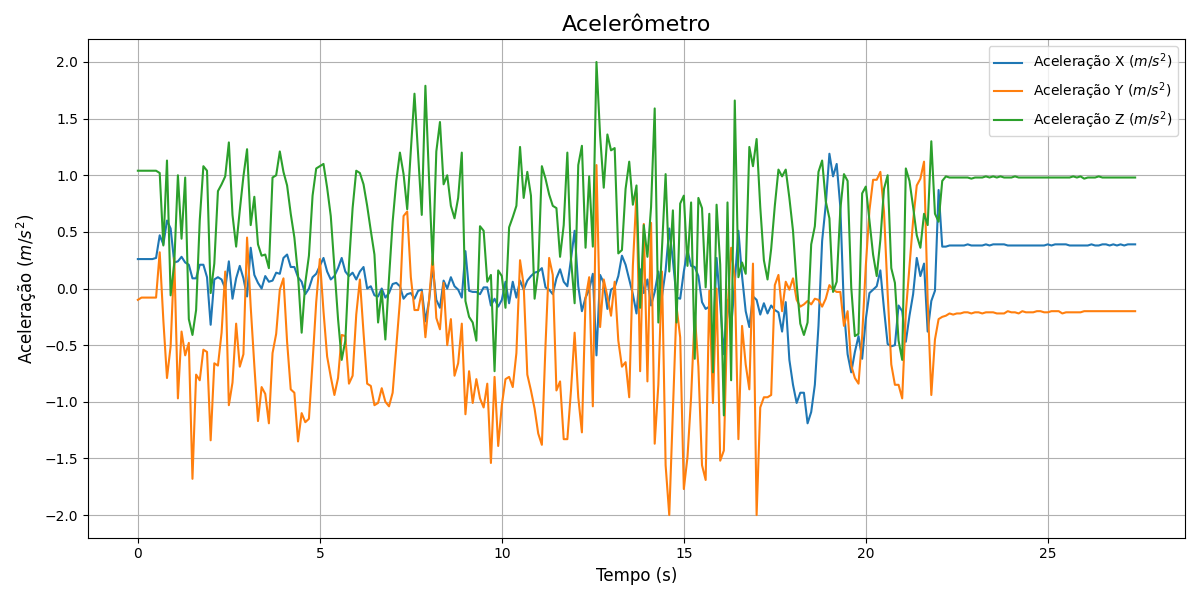
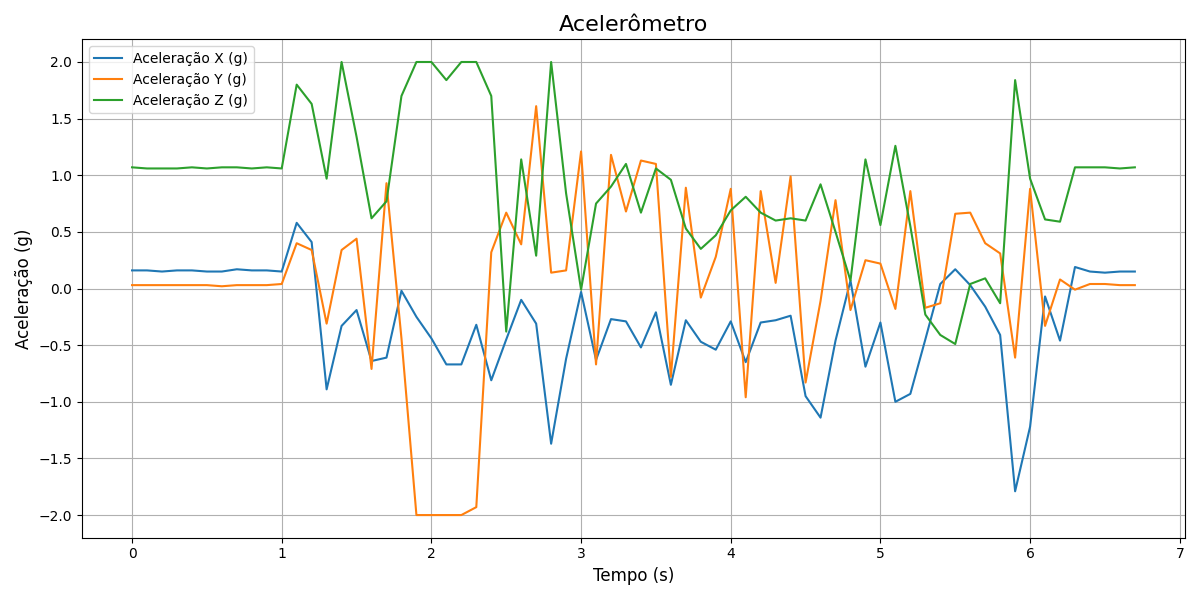
Fix: Grafico do Python

diff --git a/python/main.py b/python/main.py
@@ -3,7 +3,7 @@ import numpy as np
 import matplotlib.pyplot as plt
 
 # AJUSTA O NOME DO ARQUIVO
-filename = 'python/LOG1.csv'
+filename = 'python/LOG9.csv'
 dt = 0.1
 
 # Verifica se achou o arquivo
@@ -18,12 +18,12 @@ df_leitura['tempo'] = df_leitura['index'] * dt # Gera label do tempo
 
 # -> ACELEROMETRO
 plt.figure(figsize=(12, 6))
-plt.plot(df_leitura['tempo'], df_leitura['accel_x'], label='Aceleração X ($m/s^2$)')
-plt.plot(df_leitura['tempo'], df_leitura['accel_y'], label='Aceleração Y ($m/s^2$)')
-plt.plot(df_leitura['tempo'], df_leitura['accel_z'], label='Aceleração Z ($m/s^2$)')
+plt.plot(df_leitura['tempo'], df_leitura['accel_x'], label='Aceleração X (g)')
+plt.plot(df_leitura['tempo'], df_leitura['accel_y'], label='Aceleração Y (g)')
+plt.plot(df_leitura['tempo'], df_leitura['accel_z'], label='Aceleração Z (g)')
 plt.title('Acelerômetro', fontsize=16)
 plt.xlabel('Tempo (s)', fontsize=12)
-plt.ylabel('Aceleração ($m/s^2$)', fontsize=12)
+plt.ylabel('Aceleração (g)', fontsize=12)
 plt.legend()
 plt.grid(True)
 plt.tight_layout()
